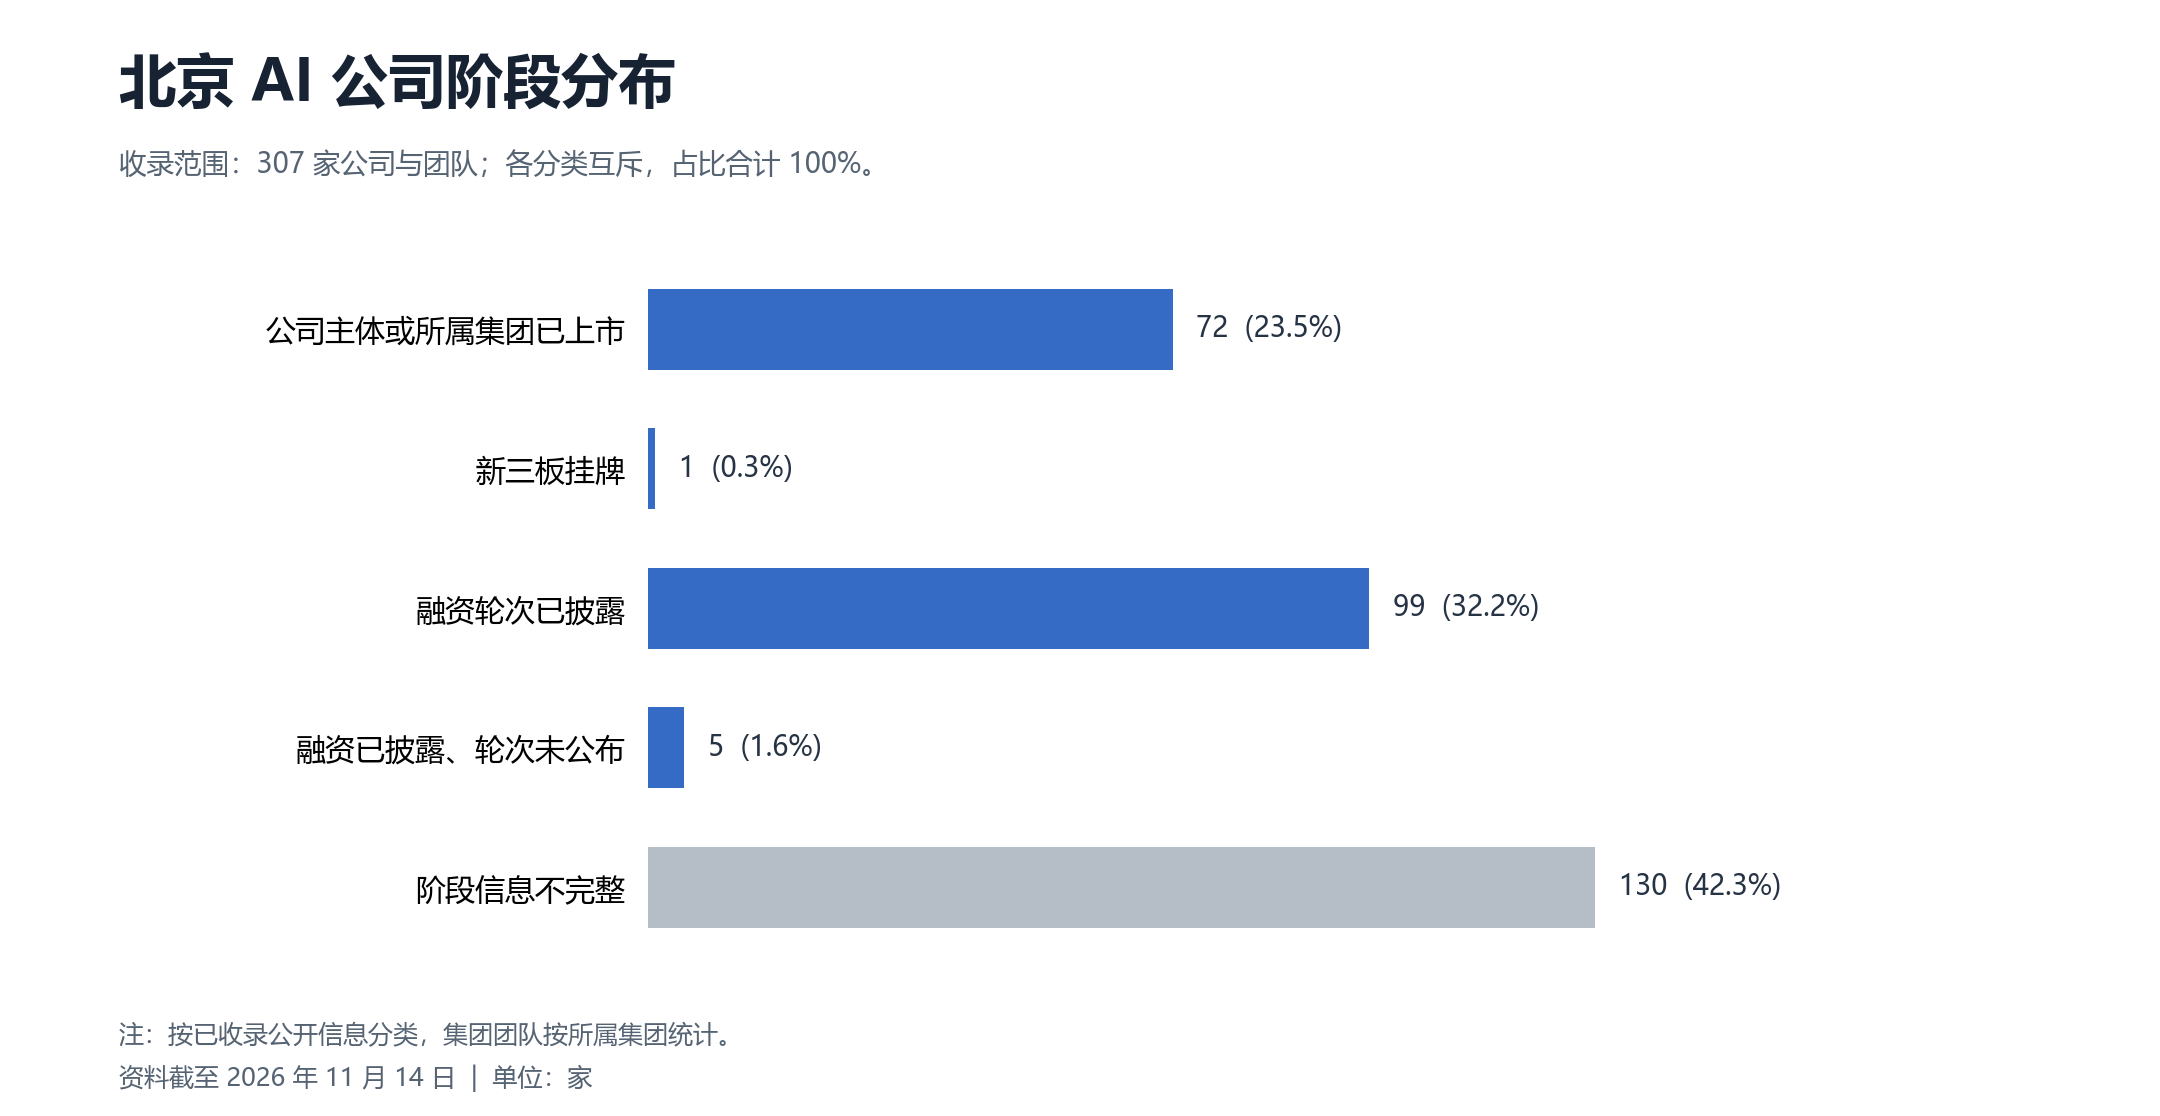
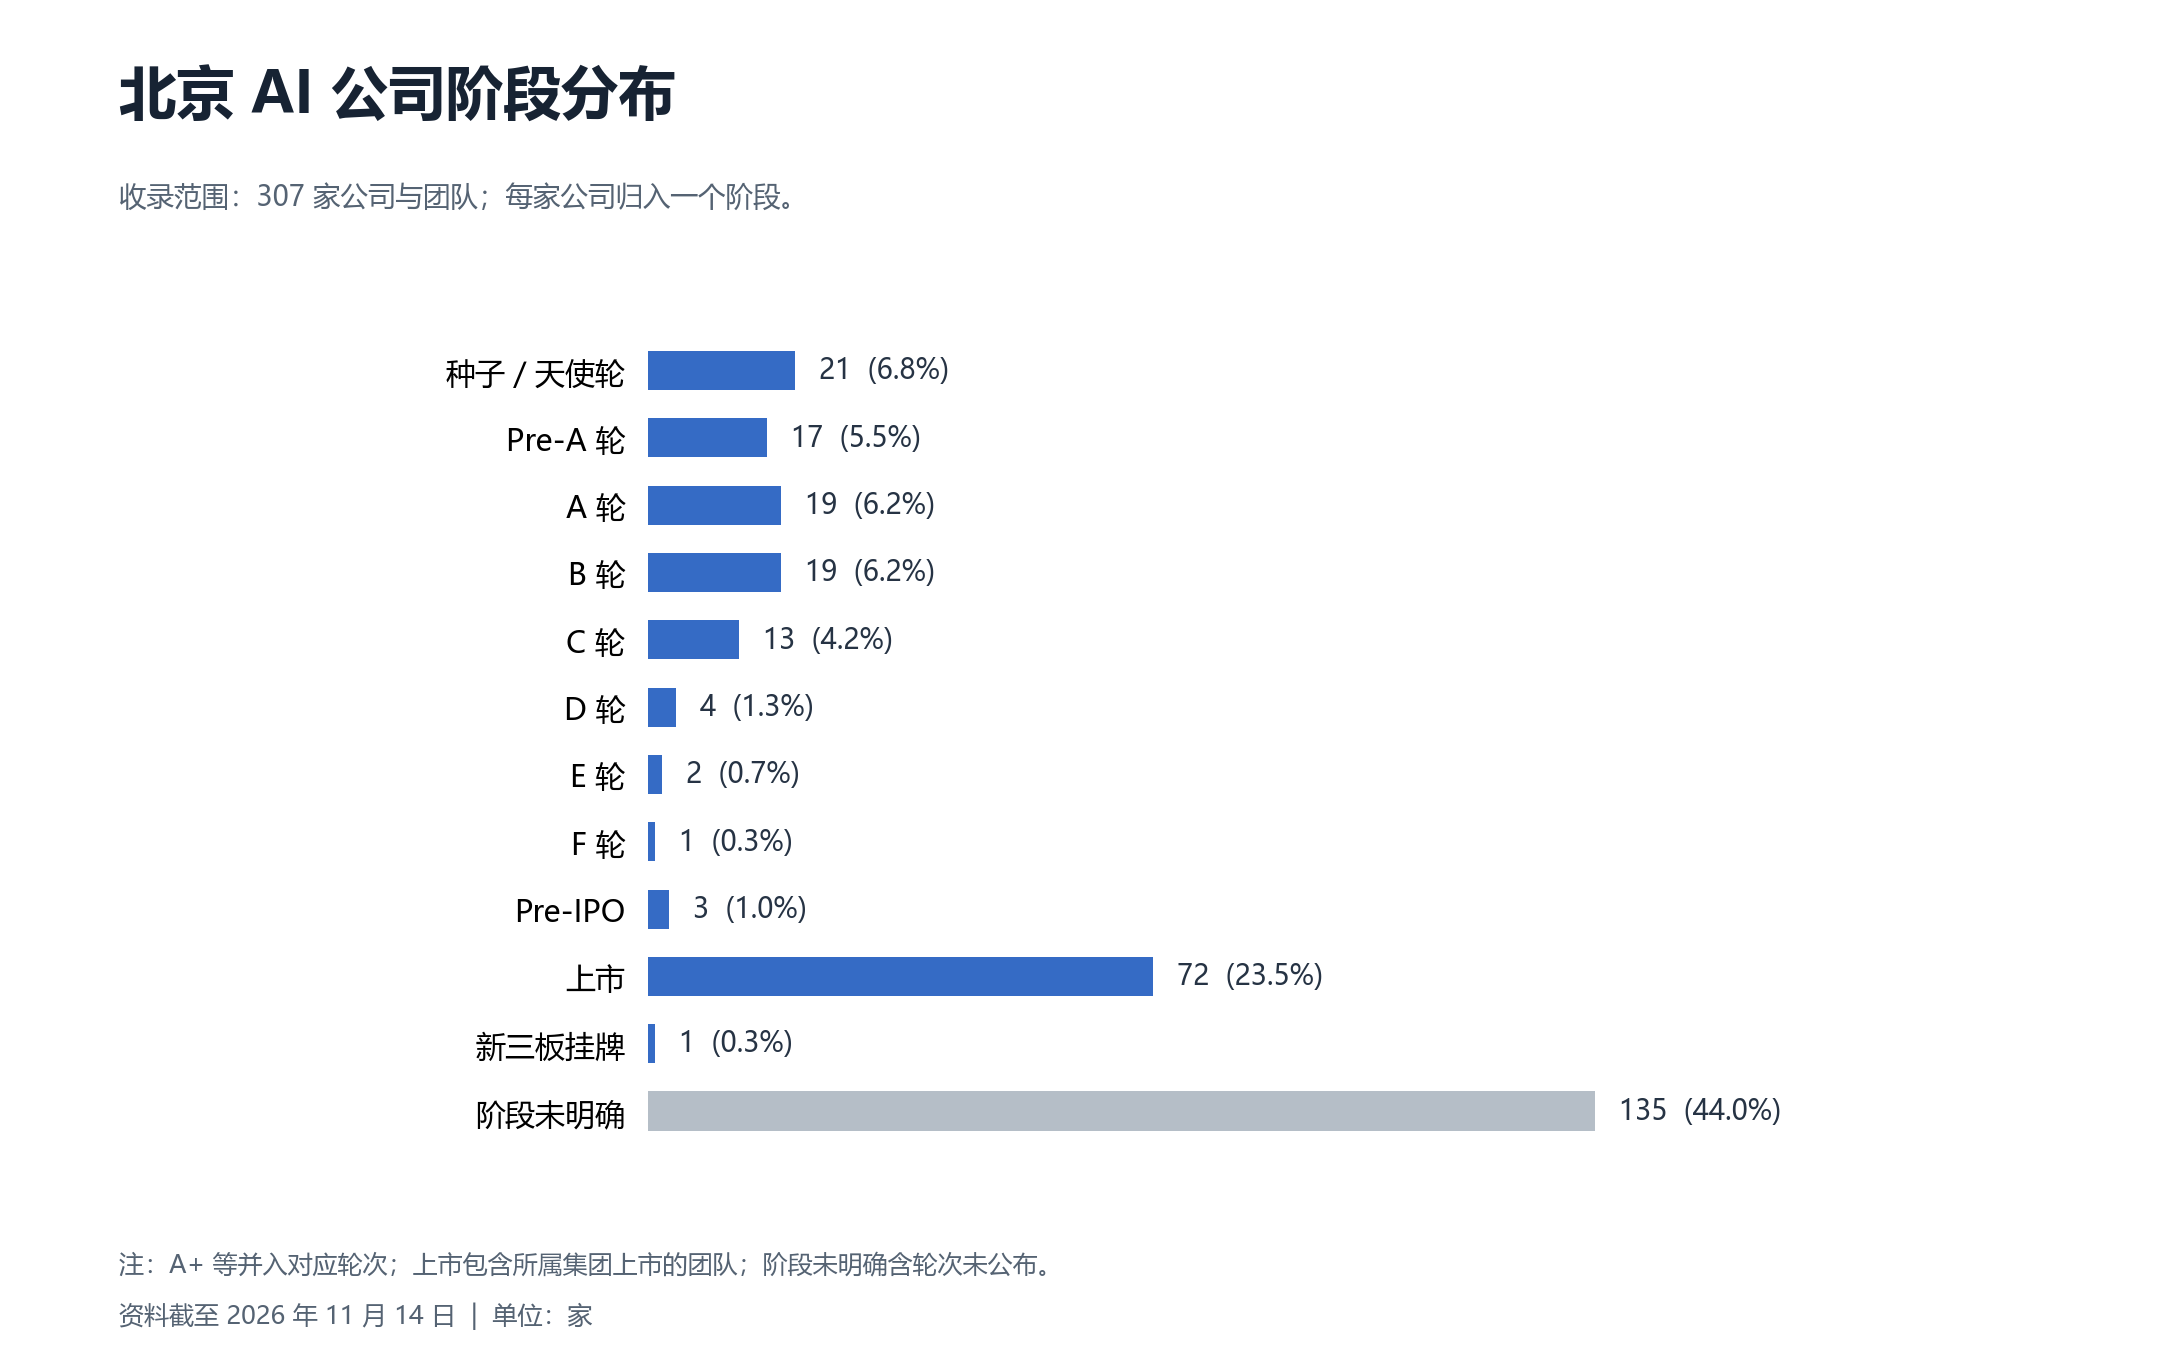
Combine company stages and funding rounds into one chart

diff --git a/README.md b/README.md
@@ -12,8 +12,6 @@
 
 ![北京公司阶段统计](docs/images/stage-overview-2026.png)
 
-![北京公司融资轮次统计](docs/images/funding-rounds-2026.png)
-
 ## 方向分布
 
 ![北京公司方向标签统计](docs/images/direction-tags.png)
